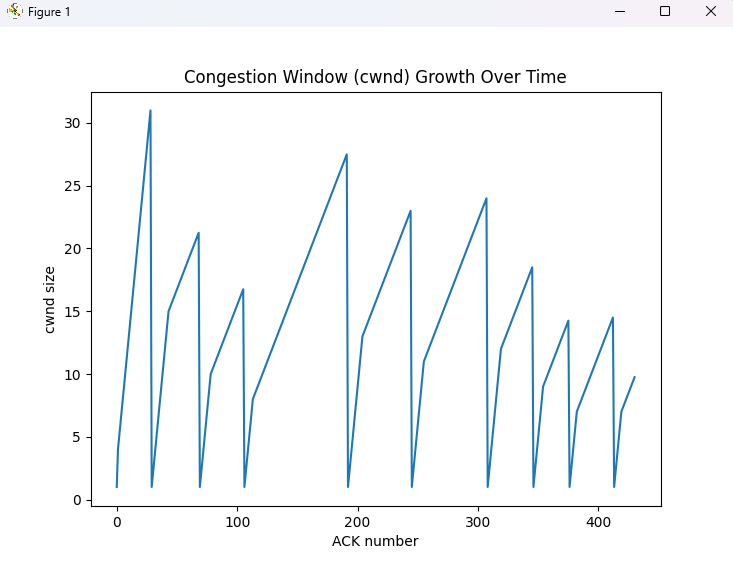
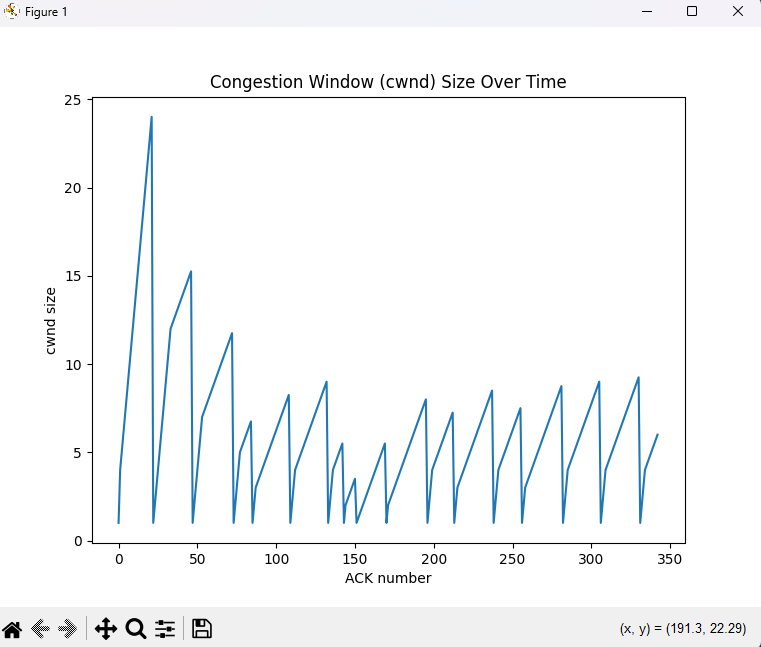
server now has internal buffer that is filled up

diff --git a/server.py b/server.py
@@ -2,42 +2,69 @@ import socket
 import time
 from util import *
 import threading
+import random
 
 #
 # Set up whats needed for connection
-RECV_BUFFER = BUFFER_SIZE
+BUFFER_SIZE = 24
+CURRENT_BUFFER_SIZE = 0
+
+#
+# for concurrency
+buffer_lock = threading.Lock()
 
 expected_seq = 0
-rwnd = 10
 connected = False
 client_addr = None
 has_syn = False
 has_fin = False
 total_message = ""
+buffer = []
 
 def reset_connection():
-    global expected_seq, rwnd, connected, client_addr, has_syn, has_fin, total_message
+    global expected_seq, connected, client_addr, has_syn, has_fin, total_message, BUFFER_SIZE, CURRENT_BUFFER_SIZE, buffer
     expected_seq = 0
-    rwnd = 10
     connected = False
     client_addr = None
     has_syn = False
     has_fin = False
     total_message = ""
+    BUFFER_SIZE = 24
+    CURRENT_BUFFER_SIZE = 0
+    buffer = []
+
+def process_buffer():
+    global CURRENT_BUFFER_SIZE, BUFFER_SIZE, total_message, buffer
+
+    while True:
+        time.sleep(random.uniform(0.001, 0.01))
+        with buffer_lock:
+            if CURRENT_BUFFER_SIZE > 0:
+                seq, msg = buffer.pop(0)
+                CURRENT_BUFFER_SIZE -= 1
+                rwnd = BUFFER_SIZE - CURRENT_BUFFER_SIZE
+                print(f"Received: seq = {seq}; data = {msg}")
+            else:
+                time.sleep(0.005)
+                continue
 
 def start_server():
-    global expected_seq, rwnd, connected, client_addr, has_syn, has_fin, total_message
+    global expected_seq, connected, client_addr, has_syn, has_fin, total_message, BUFFER_SIZE, CURRENT_BUFFER_SIZE, buffer
     #
     # set up UDP socket
     sock = socket.socket(socket.AF_INET, socket.SOCK_DGRAM)
     sock.bind((SERVER_IP, SERVER_PORT))
     sock.settimeout(1.0)
     print(f"Server listening on port {SERVER_PORT}")
+
+    #
+    # Start processing queue
+    threading.Thread(target=process_buffer, daemon=True).start()
         
     try:
         while True:
             try:
-                data, addr = sock.recvfrom(RECV_BUFFER)
+                data, addr = sock.recvfrom(1024)
 
             except socket.timeout:
                 continue
@@ -58,7 +85,8 @@ def start_server():
 
                 if (flags & SYN_FLAG): # first part in 3-way handshake
                     print(f"SYN received from {addr}. Connected (1/2)")
-                    return_ack = create_packet(0, seq + 1, ACK_FLAG | SYN_FLAG, rwnd, b"")
+                    with buffer_lock:
+                        return_ack = create_packet(0, seq + 1, ACK_FLAG | SYN_FLAG, (BUFFER_SIZE - CURRENT_BUFFER_SIZE), b"")
                     sock.sendto(return_ack, addr)
                     has_syn = True
                     client_addr = addr
@@ -80,10 +108,10 @@ def start_server():
             if not has_fin and (flags & FIN_FLAG):
                 has_fin = True
                 print("FIN received.  Closing (1/2)")
-                fin_ack = create_packet(0, seq + 1, ACK_FLAG, rwnd, b"")
+                with buffer_lock:
+                    fin_ack = create_packet(0, seq + 1, ACK_FLAG, (BUFFER_SIZE - CURRENT_BUFFER_SIZE), b"")
+                    fin_msg = create_packet(0, seq + 1, FIN_FLAG, (BUFFER_SIZE - CURRENT_BUFFER_SIZE), b"")
                 sock.sendto(fin_ack, addr)
-
-                fin_msg = create_packet(0, seq + 1, FIN_FLAG, rwnd, b"")
                 sock.sendto(fin_msg, addr)
                 continue
 
@@ -95,16 +123,23 @@ def start_server():
             #
             # Indicates this is a data message
             if (flags & DATA_FLAG):
-                if seq == expected_seq:
-                    msg = payload.decode('utf-8')
-                    total_message += msg
-                    print(f"Received (seq, data): {seq}, data={msg}")
-                    expected_seq += 1
-                else:
-                    print(f"WARNING: Out of order. Expected: {expected_seq}, Received: {seq})")
+                with buffer_lock:
+                    if CURRENT_BUFFER_SIZE < BUFFER_SIZE:
+                        if seq == expected_seq:
+                            expected_seq += 1
+                            CURRENT_BUFFER_SIZE += 1
+                            #
+                            # process the packet while still getting more
+                            msg = payload.decode('utf-8')
+                            total_message += msg
+                            buffer.append((seq, msg))
+                        else:
+                            print(f"WARNING: Out of order. Expected: {expected_seq}, Received: {seq})")
 
-                ack_pkt = create_packet(0, expected_seq - 1, ACK_FLAG, rwnd, b"")
-                sock.sendto(ack_pkt, addr)
+                        ack_pkt = create_packet(0, expected_seq - 1, ACK_FLAG, (BUFFER_SIZE - CURRENT_BUFFER_SIZE), b"")
+                        sock.sendto(ack_pkt, addr)
+                    else:
+                        print(f"WARNING: Buffer full. Discarding packet with seq = {seq}")
 
     except KeyboardInterrupt:
         print("\n\nShutting down...")

diff --git a/client.py b/client.py
@@ -5,11 +5,10 @@ import random
 import matplotlib.pyplot as plt
 
 SERVER_ADDR = (SERVER_IP, SERVER_PORT)
-CLIENT_RWND = 20
+CLIENT_RWND = 24
 TIMEOUT = 1.0
-RECV_BUFFER = BUFFER_SIZE
 PAYLOAD_SIZE = 64
-DATA_FILENAME = 'jesus.txt'
+DATA_FILENAME = 'protocol.txt'
 
 def start_client():
 
@@ -24,7 +23,10 @@ def start_client():
     cwnd = 4 # to start
     threshold = 32 # random value to start
 
+    server_rwnd = float('inf')
+
     cwnd_data = [1]
+    rwnd_data = [0]
 
     print("Client started.")
 
@@ -36,7 +38,7 @@ def start_client():
 
     while not connected:
         try:
-            data, addr = sock.recvfrom(RECV_BUFFER)
+            data, addr = sock.recvfrom(1024)
         except socket.timeout:
             print("Timed out while waiting for SYN-ACK. resending SYN")
             sock.sendto(syn_packet, SERVER_ADDR)
@@ -46,7 +48,9 @@ def start_client():
         if not packet:
             continue
 
-        seq, ack, flags, server_rwnd, payload = packet
+        seq, ack, flags, new_server_rwnd, payload = packet
+
+        server_rwnd = new_server_rwnd
 
         #
         # Has the server ACKed the first SYN?
@@ -80,11 +84,12 @@ def start_client():
 
     while send_base < len(messages):
         cwnd_data.append(cwnd)
+        rwnd_data.append(server_rwnd)
         #
         # Send current DATA packet
-        while next_seq < send_base + min(int(cwnd), CLIENT_RWND) and next_seq < len(messages):
+        while next_seq < send_base + max(1, int(min(int(cwnd), server_rwnd))) and next_seq < len(messages):
             pkt = create_packet(next_seq, 0, DATA_FLAG, CLIENT_RWND, messages[next_seq])
-            if random.randint(1,100) > 7:
+            if random.randint(1,100) > 2:
                 sock.sendto(pkt, SERVER_ADDR)
                 sent = messages[next_seq].decode('utf-8')
             print(f"Sent data: '{sent}', with seq: {next_seq}")
@@ -93,7 +98,7 @@ def start_client():
         # Wait for ACK
         sock.settimeout(TIMEOUT)
         try:
-            data, addr = sock.recvfrom(RECV_BUFFER)
+            data, addr = sock.recvfrom(1024)
         except socket.timeout:
             print("-----\nTimeout waiting for ACK; resending window\n-----")
             #
@@ -112,7 +117,9 @@ def start_client():
         r_seq, r_ack, r_flags, r_rwnd, r_payload = packet
         #
         if (r_flags & ACK_FLAG):
-            #print(f"\tACKed seq = {r_ack}")
+            #
+            # Adjust server rwnd
+            server_rwnd = r_rwnd
             #
             # Adjust cwnd
             if cwnd < threshold:
@@ -140,7 +147,7 @@ def start_client():
     # Wait for server to send ack
     while True:
         try:
-            data, addr = sock.recvfrom(RECV_BUFFER)
+            data, addr = sock.recvfrom(1024)
         except socket.timeout:
             print("Timed out while waiting for server's FIN-ACK. resending FIN message")
             sock.sendto(fin_packet, SERVER_ADDR)
@@ -165,7 +172,7 @@ def start_client():
 
     while True:
         try:
-            data, addr = sock.recvfrom(RECV_BUFFER)
+            data, addr = sock.recvfrom(1024)
         except socket.timeout:
             print("Waiting for server FIN")
             continue
@@ -186,15 +193,22 @@ def start_client():
     print("Sent final ACK\nConnection Closed")
 
     # graph the 
-    # graph_cwnd(cwnd_data)
-
+    graph_cwnd(cwnd_data)
+    graph_rwnd(rwnd_data)
     return
 
 def graph_cwnd(data):
     plt.plot(data)
     plt.xlabel("ACK number")
     plt.ylabel("cwnd size")
-    plt.title("Congestion Window (cwnd) Growth Over Time")
+    plt.title("Congestion Window (cwnd) Size Over Time")
+    plt.show()
+
+def graph_rwnd(data):
+    plt.plot(data)
+    plt.xlabel("ACK number")
+    plt.ylabel("server rwnd size")
+    plt.title("Server Buffer Window (rwnd) wnd Size Over Time")
     plt.show()
 
 if __name__ == "__main__":

diff --git a/util.py b/util.py
@@ -2,7 +2,6 @@ import struct
 import random
 import time
 
-BUFFER_SIZE = 4096
 SERVER_IP = '127.0.0.1'
 SERVER_PORT = 8080
 
